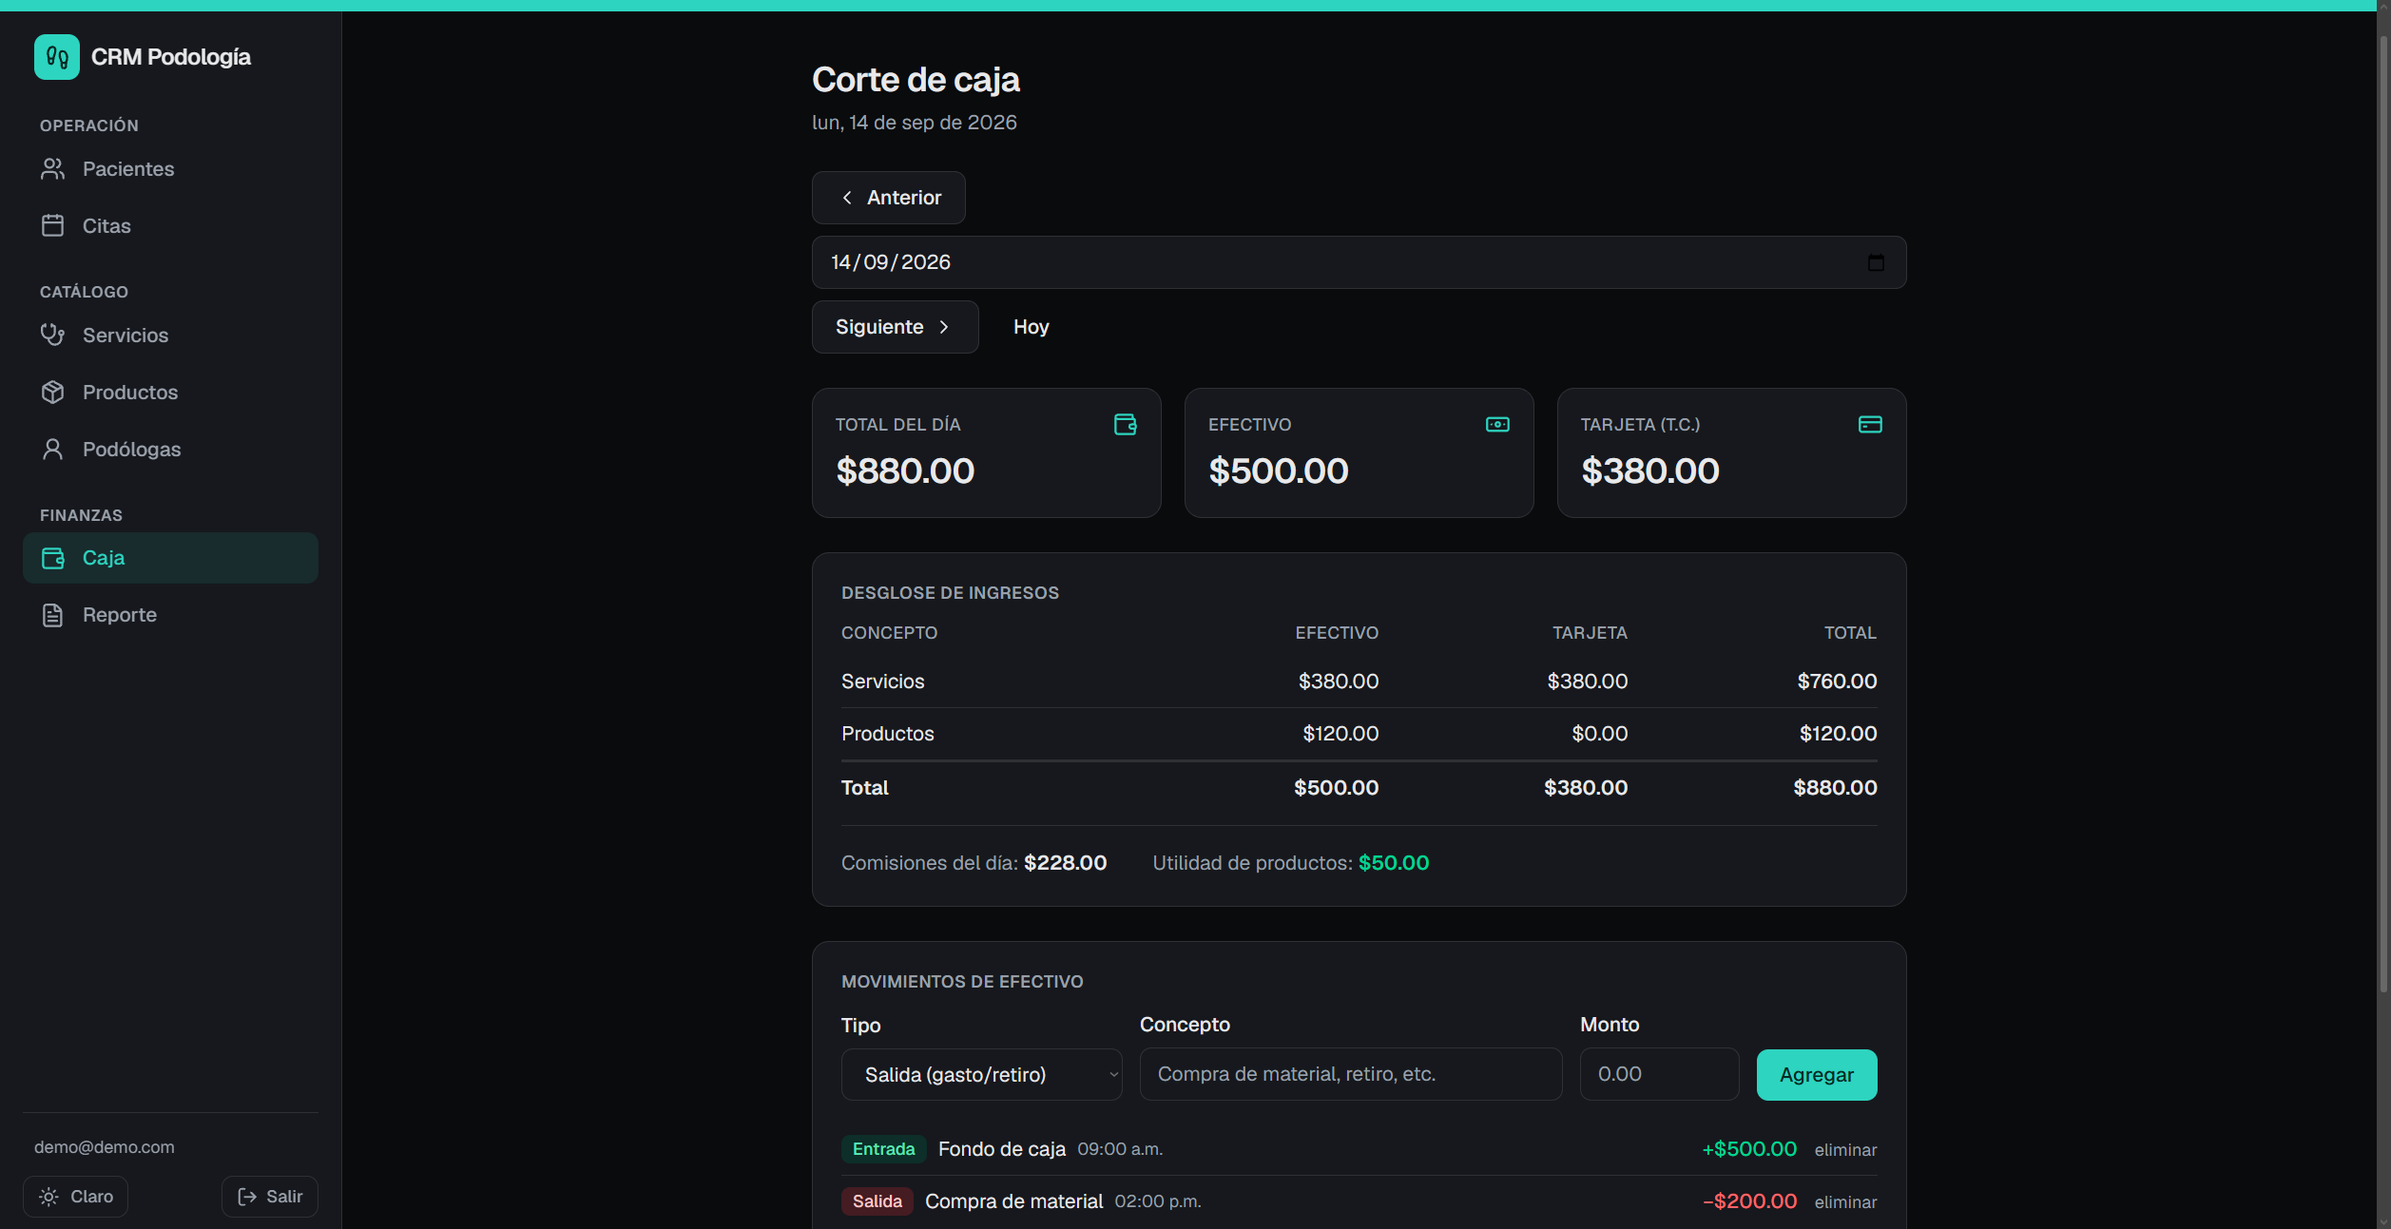
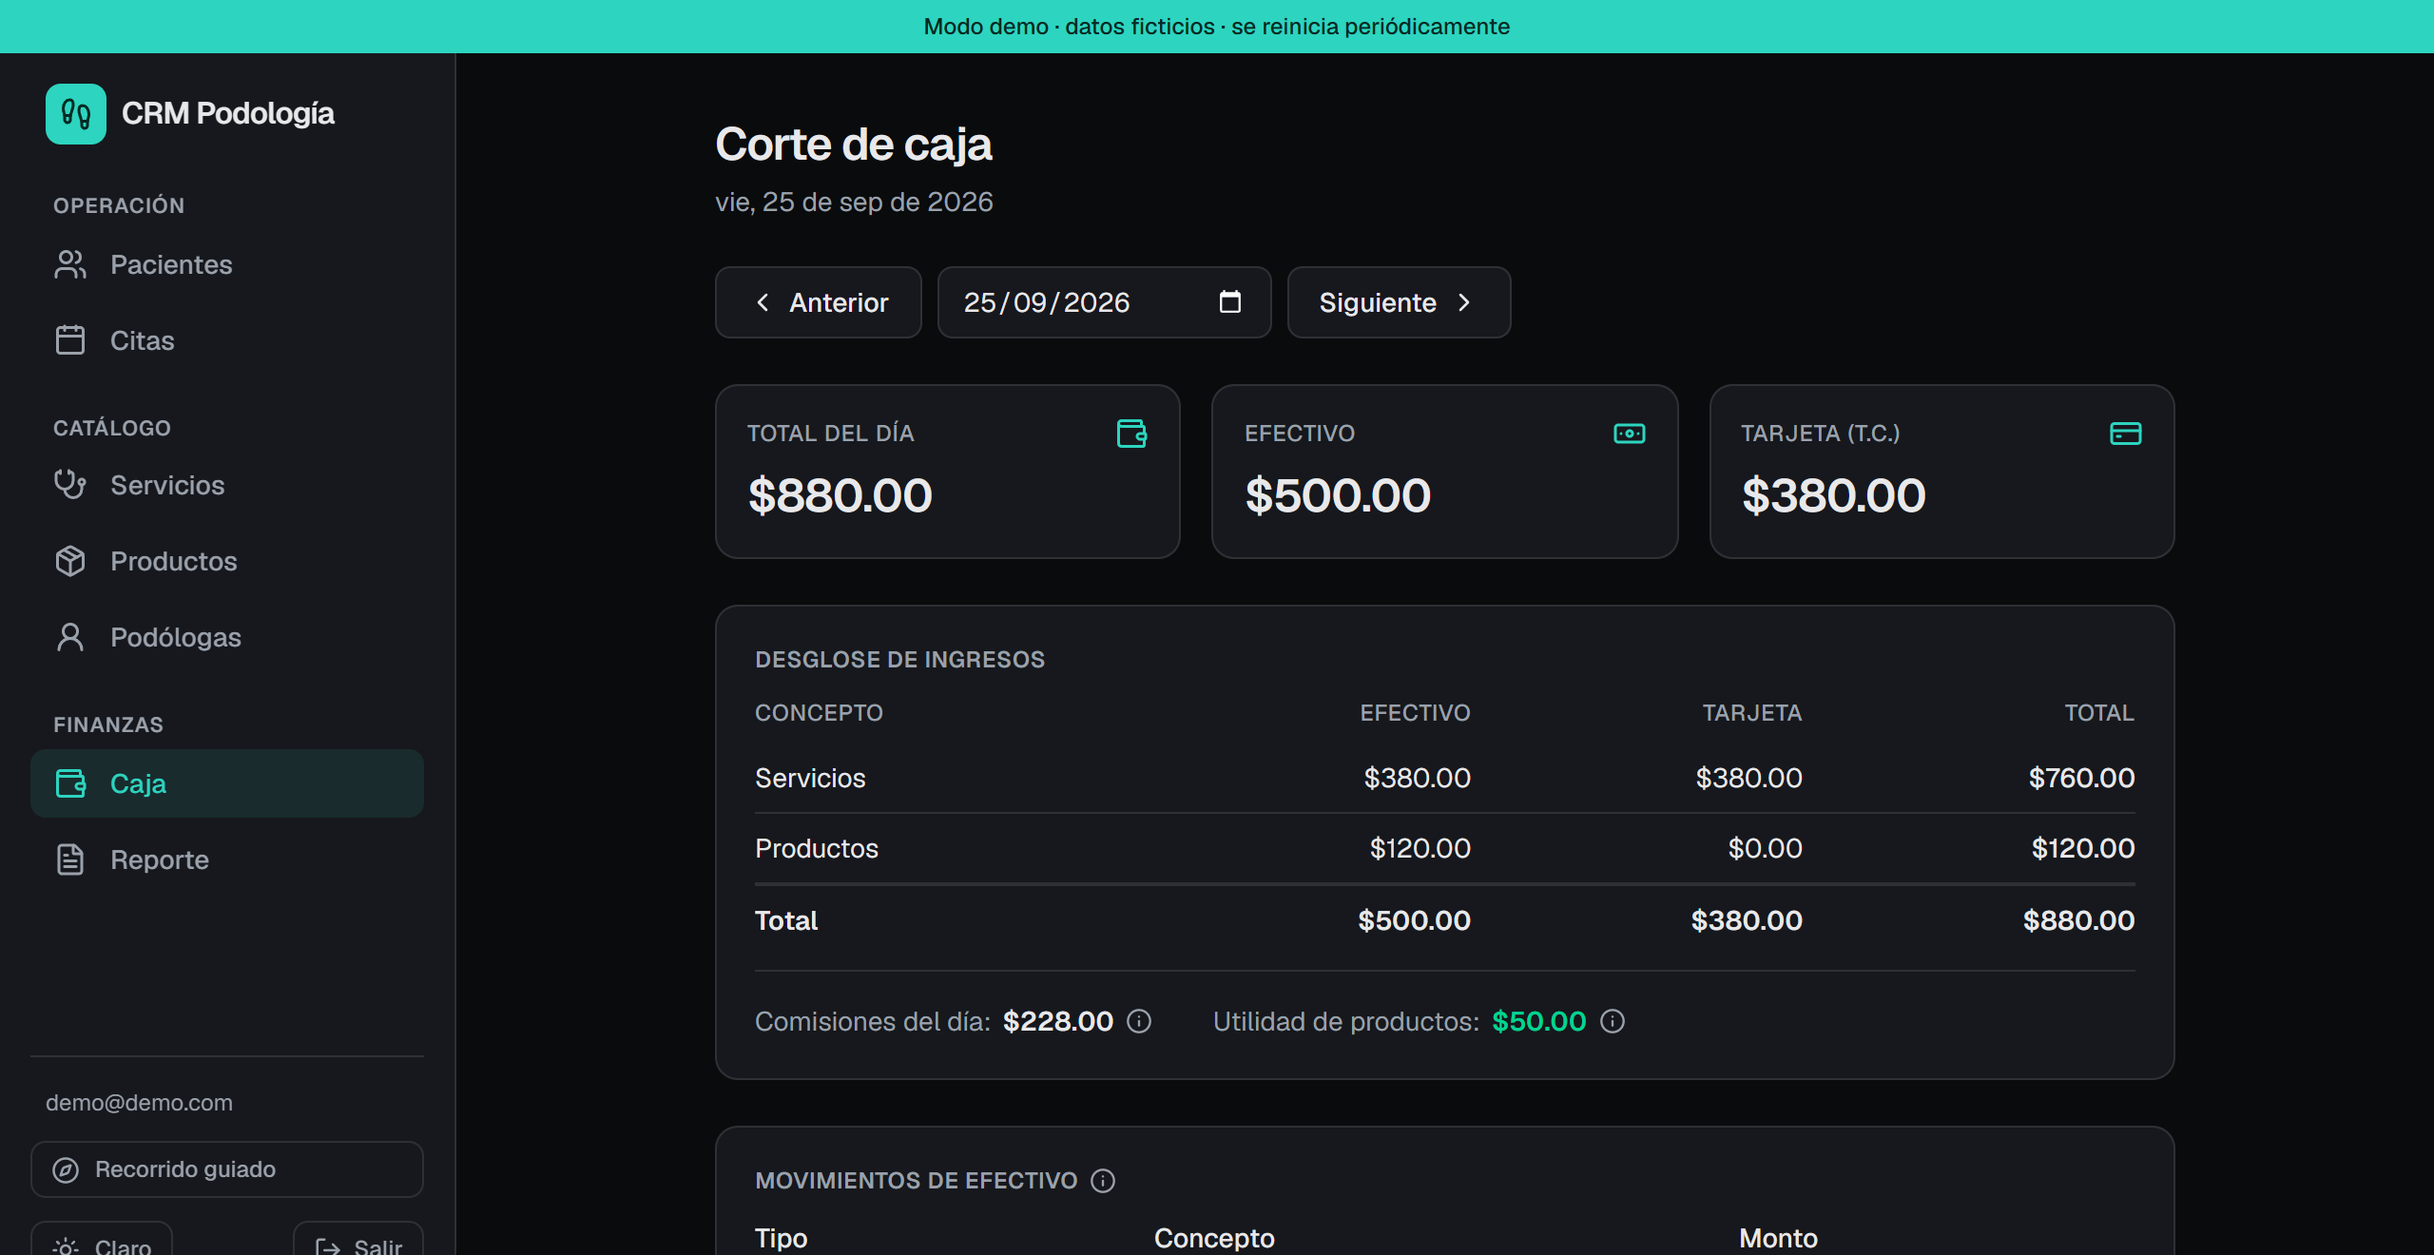
Actualiza screenshots del proyecto y correcciones generales

diff --git a/src/lib/estadisticas.ts b/src/lib/estadisticas.ts
@@ -21,7 +21,7 @@ const fmtDiaSemana = new Intl.DateTimeFormat("es-MX", { weekday: "short", day: "
 const fmtLargo = new Intl.DateTimeFormat("es-MX", { weekday: "long", day: "numeric", month: "short", timeZone: TZ });
 const fecha = (key: string) => rangoDia(key).inicio;
 
-export type Bucket = {
+type Bucket = {
   clave: string;
   etiqueta: string; // eje X
   detalle: string; // tooltip / tabla
@@ -31,7 +31,10 @@ export type Bucket = {
   atendidos: number;
 };
 
-export type Fila = { id: string; nombre: string; valor: number; extra: number; cantidad: number };
+// Por podóloga: lo que cobró en servicios y su comisión. Por servicio: cuántas
+// veces se cobró y cuánto ingresó.
+type PorPodologa = { id: string; nombre: string; ingresos: number; comision: number; servicios: number };
+type PorServicio = { id: string; nombre: string; veces: number; ingresos: number };
 
 const cambio = (actual: number, anterior: number) =>
   anterior > 0 ? (actual - anterior) / anterior : null;
@@ -99,8 +102,8 @@ export async function obtenerEstadisticas(periodo: Periodo) {
 
   // ── Ingresos, por podóloga y por servicio ───────────────────────────
   let ingresos = 0;
-  const porPodologa = new Map<string, Fila>();
-  const porServicio = new Map<string, Fila>();
+  const porPodologa = new Map<string, PorPodologa>();
+  const porServicio = new Map<string, PorServicio>();
   for (const p of pagos) {
     const monto = Number(p.monto);
     ingresos += monto;
@@ -112,23 +115,22 @@ export async function obtenerEstadisticas(periodo: Periodo) {
     }
     if (p.servicioId) {
       if (p.podologaId) {
-        const f = porPodologa.get(p.podologaId) ?? { id: p.podologaId, nombre: "", valor: 0, extra: 0, cantidad: 0 };
-        f.valor += monto;
-        f.extra += Number(p.comision);
-        f.cantidad += 1;
+        const f = porPodologa.get(p.podologaId) ?? { id: p.podologaId, nombre: "", ingresos: 0, comision: 0, servicios: 0 };
+        f.ingresos += monto;
+        f.comision += Number(p.comision);
+        f.servicios += 1;
         porPodologa.set(p.podologaId, f);
       }
-      const s = porServicio.get(p.servicioId) ?? { id: p.servicioId, nombre: "", valor: 0, extra: 0, cantidad: 0 };
-      s.valor += 1;
-      s.extra += monto;
-      s.cantidad += 1;
+      const s = porServicio.get(p.servicioId) ?? { id: p.servicioId, nombre: "", veces: 0, ingresos: 0 };
+      s.veces += 1;
+      s.ingresos += monto;
       porServicio.set(p.servicioId, s);
     }
   }
-  const nombrar = (filas: Map<string, Fila>, catalogo: { id: string; nombre: string }[]) =>
-    [...filas.values()]
-      .map((f) => ({ ...f, nombre: catalogo.find((c) => c.id === f.id)?.nombre ?? "—" }))
-      .sort((a, b) => b.valor - a.valor);
+  const nombrar = <T extends { id: string; nombre: string }>(
+    filas: Map<string, T>,
+    catalogo: { id: string; nombre: string }[]
+  ) => [...filas.values()].map((f) => ({ ...f, nombre: catalogo.find((c) => c.id === f.id)?.nombre ?? "—" }));
 
   // ── Asistencia ──────────────────────────────────────────────────────
   const asistencia = { llego: 0, tarde: 0, noVino: 0 };
@@ -173,10 +175,8 @@ export async function obtenerEstadisticas(periodo: Periodo) {
         cambio: tasa !== null && tasaPrevia !== null ? tasa - tasaPrevia : null,
       },
     },
-    porPodologa: nombrar(porPodologa, podologas),
-    porServicio: nombrar(porServicio, servicios),
+    porPodologa: nombrar(porPodologa, podologas).sort((a, b) => b.ingresos - a.ingresos),
+    porServicio: nombrar(porServicio, servicios).sort((a, b) => b.veces - a.veces),
     asistencia,
   };
 }
-
-export type Estadisticas = Awaited<ReturnType<typeof obtenerEstadisticas>>;

diff --git a/src/app/dashboard/(panel)/page.tsx b/src/app/dashboard/(panel)/page.tsx
@@ -234,9 +234,9 @@ export default async function DashboardPage({
                 filas={stats.porPodologa.map((f) => ({
                   id: f.id,
                   nombre: f.nombre,
-                  valor: f.valor,
-                  valorTexto: fmt0.format(f.valor),
-                  detalle: `${f.cantidad} servicios · comisión ${fmt0.format(f.extra)}`,
+                  valor: f.ingresos,
+                  valorTexto: fmt0.format(f.ingresos),
+                  detalle: `${f.servicios} servicios · comisión ${fmt0.format(f.comision)}`,
                 }))}
               />
             }
@@ -245,9 +245,9 @@ export default async function DashboardPage({
                 columnas={["Podóloga", "Servicios", "Ingresos", "Comisión"]}
                 filas={stats.porPodologa.map((f) => [
                   f.nombre,
-                  f.cantidad,
-                  fmt0.format(f.valor),
-                  fmt0.format(f.extra),
+                  f.servicios,
+                  fmt0.format(f.ingresos),
+                  fmt0.format(f.comision),
                 ])}
               />
             }
@@ -260,16 +260,16 @@ export default async function DashboardPage({
                 filas={stats.porServicio.slice(0, 5).map((f) => ({
                   id: f.id,
                   nombre: f.nombre,
-                  valor: f.valor,
-                  valorTexto: f.valor.toLocaleString("es-MX"),
-                  detalle: `${fmt0.format(f.extra)} en ingresos`,
+                  valor: f.veces,
+                  valorTexto: f.veces.toLocaleString("es-MX"),
+                  detalle: `${fmt0.format(f.ingresos)} en ingresos`,
                 }))}
               />
             }
             tabla={
               <TablaDatos
                 columnas={["Servicio", "Veces", "Ingresos"]}
-                filas={stats.porServicio.map((f) => [f.nombre, f.valor, fmt0.format(f.extra)])}
+                filas={stats.porServicio.map((f) => [f.nombre, f.veces, fmt0.format(f.ingresos)])}
               />
             }
           />

diff --git a/src/app/actions/google.ts b/src/app/actions/google.ts
@@ -3,6 +3,7 @@
 import { revalidatePath } from "next/cache";
 import { EstadoCita } from "@prisma/client";
 import { prisma } from "@/lib/prisma";
+import { sugerirPorNombre } from "@/lib/busqueda-pacientes";
 import { createClient } from "@/lib/supabase/server";
 import { getAuthedClient, listarEventos } from "@/lib/google";
 import { coincidenciaExacta } from "@/lib/matching";
@@ -134,22 +135,6 @@ export async function desligarPaciente(citaId: string) {
   revalidatePath("/dashboard/citas");
 }
 
-// Crea un paciente con el nombre (pre-llenado del título, editable) y lo liga.
-export async function crearPacienteDesdeCita(
-  citaId: string,
-  formData: FormData
-) {
-  await requireUserId();
-  const nombre = String(formData.get("nombre") ?? "").trim();
-  if (!nombre) return;
-  const paciente = await prisma.paciente.create({ data: { nombre } });
-  await prisma.cita.update({
-    where: { id: citaId },
-    data: { pacienteId: paciente.id },
-  });
-  revalidatePath("/dashboard/citas");
-}
-
 // Asigna (o quita, con "") la podóloga que atiende la cita.
 export async function asignarPodologa(citaId: string, podologaId: string) {
   await requireUserId();
@@ -160,19 +145,12 @@ export async function asignarPodologa(citaId: string, podologaId: string) {
   revalidatePath("/dashboard/citas");
 }
 
-// Busca pacientes por nombre (escalable: consulta a la BD, máximo 8).
+// Busca pacientes por nombre, sin importar acentos (consulta a la BD, máximo 8).
 export async function buscarPacientes(
   query: string
 ): Promise<{ id: string; nombre: string }[]> {
   await requireUserId();
-  const q = query.trim();
-  if (!q) return [];
-  return prisma.paciente.findMany({
-    where: { nombre: { contains: q, mode: "insensitive" } },
-    orderBy: { nombre: "asc" },
-    take: 8,
-    select: { id: true, nombre: true },
-  });
+  return sugerirPorNombre(query.slice(0, 80));
 }
 
 // Liga una cita a un paciente ya existente (por id).

diff --git a/src/app/dashboard/caja/selector-dia.tsx b/src/app/dashboard/caja/selector-dia.tsx
@@ -4,14 +4,7 @@ import { useRouter } from "next/navigation";
 import { ChevronLeft, ChevronRight } from "lucide-react";
 import { Button } from "@/components/ui/button";
 import { Input } from "@/components/ui/input";
-
-// Suma días a "YYYY-MM-DD" y devuelve otra cadena "YYYY-MM-DD".
-function sumarDias(fecha: string, dias: number): string {
-  const [y, m, d] = fecha.split("-").map(Number);
-  const dt = new Date(Date.UTC(y, m - 1, d));
-  dt.setUTCDate(dt.getUTCDate() + dias);
-  return dt.toISOString().slice(0, 10);
-}
+import { sumarDiasKey } from "@/lib/fecha";
 
 export function SelectorDia({ fecha, hoy }: { fecha: string; hoy: string }) {
   const router = useRouter();
@@ -19,17 +12,20 @@ export function SelectorDia({ fecha, hoy }: { fecha: string; hoy: string }) {
 
   return (
     <div className="flex flex-wrap items-center gap-2">
-      <Button variant="outline" onClick={() => ir(sumarDias(fecha, -1))}>
+      <Button variant="outline" onClick={() => ir(sumarDiasKey(fecha, -1))}>
         <ChevronLeft size={16} />
         Anterior
       </Button>
-      <Input
-        type="date"
-        value={fecha}
-        onChange={(e) => e.target.value && ir(e.target.value)}
-        className="w-auto"
-      />
-      <Button variant="outline" onClick={() => ir(sumarDias(fecha, 1))}>
+      {/* El ancho va en el contenedor: el Input ocupa el 100% de su padre. */}
+      <div className="w-44">
+        <Input
+          type="date"
+          value={fecha}
+          onChange={(e) => e.target.value && ir(e.target.value)}
+          aria-label="Elegir día"
+        />
+      </div>
+      <Button variant="outline" onClick={() => ir(sumarDiasKey(fecha, 1))}>
         Siguiente
         <ChevronRight size={16} />
       </Button>

diff --git a/src/lib/seed-demo.ts b/src/lib/seed-demo.ts
@@ -350,10 +350,12 @@ export async function sembrarDemo(prisma: PrismaClient) {
     const dia = sumarDiasKey(hoy, offset);
     if (esDomingo(dia) || offset === 0) continue; // Domingo cerrado; hoy va aparte.
 
-    // Crecimiento: de ~5-6 citas diarias hace 6 meses a ~8 hoy; sábados más llenos.
-    const progreso = (offset + DIAS_HISTORIA) / DIAS_HISTORIA;
-    const base = 5.5 + 2.5 * Math.min(progreso, 1) + (esSabado(dia) ? 2 : 0);
-    const cuantas = Math.max(2, Math.min(HORARIOS.length, Math.round(base + (azar() - 0.5) * 3)));
+    // Crecimiento que se acelera (la clínica va ganando pacientes): de ~5-6 citas
+    // diarias hace 6 meses a ~8 hoy; sábados más llenos. Así el último mes
+    // siempre supera al anterior, sin importar el día en que se siembre.
+    const progreso = Math.min((offset + DIAS_HISTORIA) / DIAS_HISTORIA, 1);
+    const base = 5.5 + 2.5 * progreso * progreso + (esSabado(dia) ? 2 : 0);
+    const cuantas = Math.max(2, Math.min(HORARIOS.length, Math.round(base + (azar() - 0.5) * 2)));
 
     const disponibles = pacientes.filter((p) => p.altaHaceDias >= -offset);
     const usados = new Set<string>();

diff --git a/src/components/tour/tour-provider.tsx b/src/components/tour/tour-provider.tsx
@@ -5,6 +5,7 @@ import {
   useCallback,
   useContext,
   useEffect,
+  useEffectEvent,
   useMemo,
   useRef,
   useSyncExternalStore,
@@ -202,13 +203,14 @@ function TourActivo({
     d.drive();
   }, [pasos, router]);
 
-  // Primera visita: arranca solo en el panel.
+  // Primera visita: arranca solo en el panel. Se decide una vez, al montar el
+  // layout; navegar después no lo relanza.
+  const autoIniciar = useEffectEvent(() => {
+    if (pathname === "/dashboard" && leerEstado() === null) void iniciar();
+  });
   useEffect(() => {
-    if (pathname !== "/dashboard" || leerEstado() !== null) return;
-    const t = setTimeout(() => void iniciar(), 600);
+    const t = setTimeout(() => autoIniciar(), 600);
     return () => clearTimeout(t);
-    // Solo al montar el layout; no se relanza al navegar.
-    // eslint-disable-next-line react-hooks/exhaustive-deps
   }, []);
 
   // Si se sale del dashboard (p. ej. cerrar sesión) no debe quedar colgado.

diff --git a/src/lib/busqueda-pacientes.ts b/src/lib/busqueda-pacientes.ts
@@ -10,6 +10,18 @@ import { POR_PAGINA, type leerFiltros } from "./filtros-pacientes";
 const sinAcentos = (col: Prisma.Sql) =>
   Prisma.sql`translate(lower(${col}), 'áéíóúüñ', 'aeiouun')`;
 
+// Autocompletado por nombre (selector de paciente en Citas), sin acentos.
+export async function sugerirPorNombre(q: string, limite = 8) {
+  const texto = normalizar(q);
+  if (!texto) return [];
+  return prisma.$queryRaw<{ id: string; nombre: string }[]>`
+    SELECT p.id, p.nombre
+    FROM "Paciente" p
+    WHERE ${sinAcentos(Prisma.sql`p.nombre`)} LIKE ${`%${texto}%`}
+    ORDER BY p.nombre ASC
+    LIMIT ${limite}`;
+}
+
 export async function buscarPacientes(f: ReturnType<typeof leerFiltros>) {
   const condiciones: Prisma.Sql[] = [];
 

diff --git a/src/components/ui/stat-card.tsx b/src/components/ui/stat-card.tsx
@@ -15,7 +15,6 @@ export function StatCard({
   label,
   value,
   icon,
-  hint,
   info,
   infoAlign = "start",
   delta,
@@ -23,7 +22,6 @@ export function StatCard({
   label: string;
   value: ReactNode;
   icon?: ReactNode;
-  hint?: ReactNode;
   info?: string;
   infoAlign?: ComponentProps<typeof InfoTip>["align"];
   delta?: Delta;
@@ -38,7 +36,6 @@ export function StatCard({
         {icon && <span className="text-primary">{icon}</span>}
       </div>
       <p className="mt-2 text-2xl font-semibold tracking-tight">{value}</p>
-      {hint && <p className="mt-0.5 text-xs text-muted">{hint}</p>}
       {delta && <DeltaTexto delta={delta} />}
     </div>
   );

diff --git a/src/app/dashboard/pacientes/[id]/hoja/imprimir/page.tsx b/src/app/dashboard/pacientes/[id]/hoja/imprimir/page.tsx
@@ -3,7 +3,7 @@ import Link from "next/link";
 import { notFound } from "next/navigation";
 import { ArrowLeft } from "lucide-react";
 import { prisma } from "@/lib/prisma";
-import { PrintButton } from "./print-button";
+import { PrintButton } from "@/components/print-button";
 
 export const metadata: Metadata = { title: "Imprimir hoja clínica" };
 
@@ -37,7 +37,7 @@ export default async function ImprimirHojaPage({
         >
           <ArrowLeft size={15} /> Volver a la ficha
         </Link>
-        <PrintButton />
+        <PrintButton label="Imprimir / Guardar PDF" />
       </div>
 
       {/* Hoja imprimible (colores fijos claros para que imprima bien) */}

diff --git a/src/components/charts/chart-card.tsx b/src/components/charts/chart-card.tsx
@@ -13,19 +13,17 @@ export function ChartCard({
   grafica,
   tabla,
   tour,
-  className,
 }: {
   titulo: string;
   resumen?: ReactNode;
   grafica: ReactNode;
   tabla: ReactNode;
   tour?: string;
-  className?: string;
 }) {
   const [verTabla, setVerTabla] = useState(false);
 
   return (
-    <Card data-tour={tour} className={cn("flex flex-col gap-4 p-5", className)}>
+    <Card data-tour={tour} className="flex flex-col gap-4 p-5">
       <div className="flex items-start justify-between gap-3">
         <div className="min-w-0">
           <h3 className="text-sm font-semibold">{titulo}</h3>

diff --git a/src/app/globals.css b/src/app/globals.css
@@ -7,6 +7,8 @@
 /* ─── Tokens de diseño ─────────────────────────────────────────────
    Un solo acento (teal médico). Superficies planas + borde sutil. */
 :root {
+  /* Controles nativos (calendario, selects, scroll) acordes al tema. */
+  color-scheme: light;
   --background: #f6f7f8;
   --surface: #ffffff;
   --surface-2: #eef0f2;
@@ -24,6 +26,7 @@
 }
 
 [data-theme="dark"] {
+  color-scheme: dark;
   --background: #0a0b0d;
   --surface: #16181d;
   --surface-2: #21242b;

diff --git a/src/app/api/demo/reset/route.ts b/src/app/api/demo/reset/route.ts
@@ -10,9 +10,10 @@ export async function GET(request: Request) {
     return NextResponse.json({ error: "No disponible" }, { status: 404 });
   }
 
+  // Sin CRON_SECRET configurado la ruta queda cerrada (nadie puede resetear).
   const secret = process.env.CRON_SECRET;
   const auth = request.headers.get("authorization");
-  if (secret && auth !== `Bearer ${secret}`) {
+  if (!secret || auth !== `Bearer ${secret}`) {
     return NextResponse.json({ error: "No autorizado" }, { status: 401 });
   }
 
